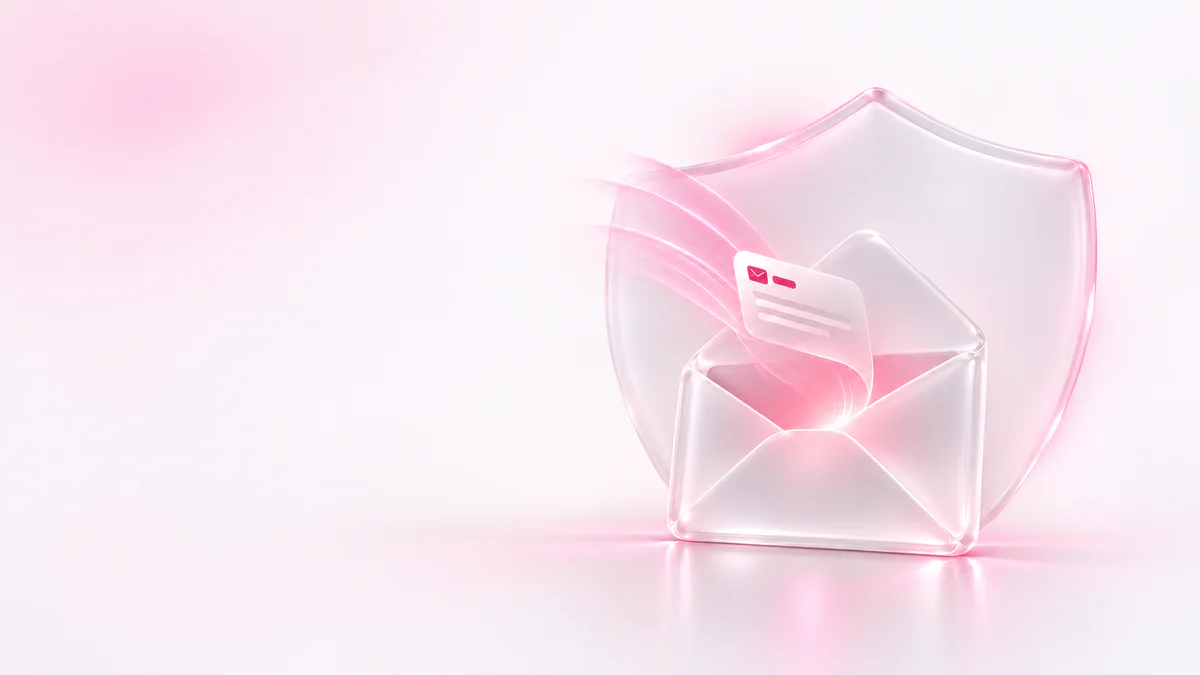
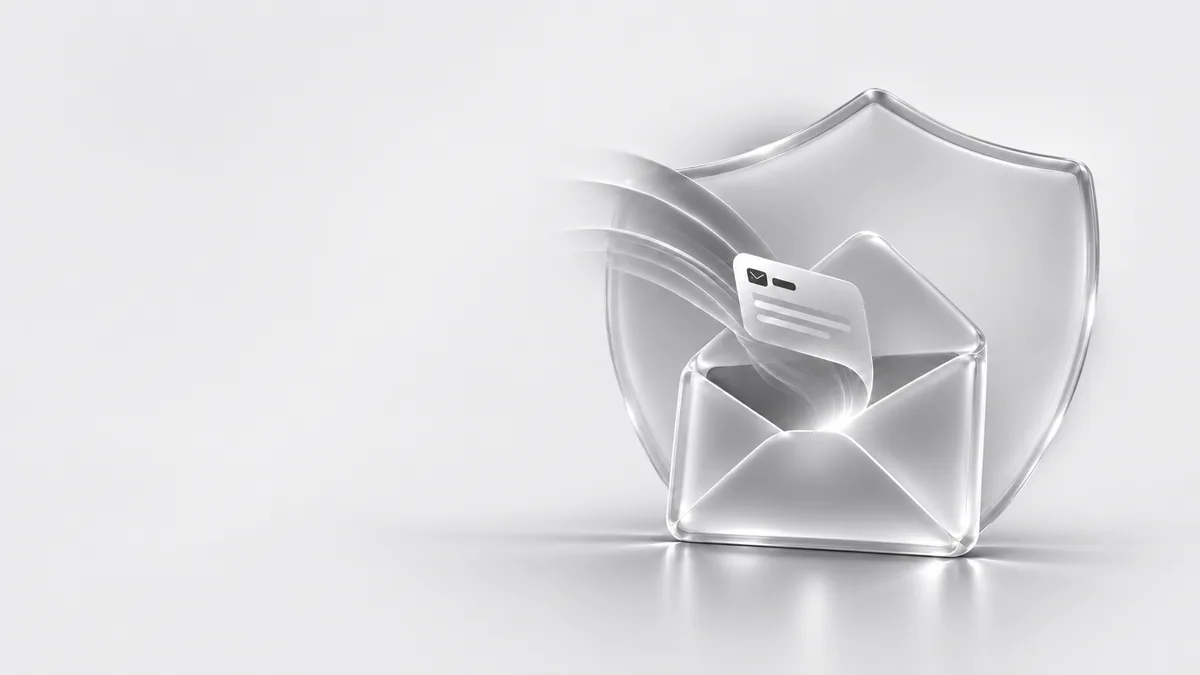
Hero Light mode redesign

Changed region(s): [[0.3392, 0.1244, 0.9558, 0.9956]]

diff --git a/web/src/components/landing/Hero.tsx b/web/src/components/landing/Hero.tsx
@@ -5,7 +5,7 @@ export function Hero() {
   return (
     <section
       aria-labelledby="hero-title"
-      className="relative isolate overflow-hidden border-b border-hairline/70 bg-[#fbf3f9] dark:bg-[#0f090d]"
+      className="relative isolate overflow-hidden border-b border-hairline/70 bg-[#e9e9ea] dark:bg-[#0f090d]"
     >
       <div className="shell grid items-center gap-8 pt-10 pb-10 sm:gap-10 sm:pt-12 sm:pb-12 lg:min-h-[36rem] lg:py-16">
         <div className="relative z-10 max-w-xl">

diff --git a/web/src/components/landing/HeroVisual.tsx b/web/src/components/landing/HeroVisual.tsx
@@ -103,7 +103,7 @@ export function HeroVisual() {
           <div className="hero-grain pointer-events-none absolute inset-0" />
         </div>
 
-        <div className="pointer-events-none absolute inset-x-0 top-0 h-10 bg-gradient-to-b from-[#fbf3f9] to-transparent dark:from-[#0f090d]" />
+        <div className="pointer-events-none absolute inset-x-0 top-0 h-10 bg-gradient-to-b from-[#e9e9ea] to-transparent dark:from-[#0f090d]" />
       </div>
 
       <Chip
